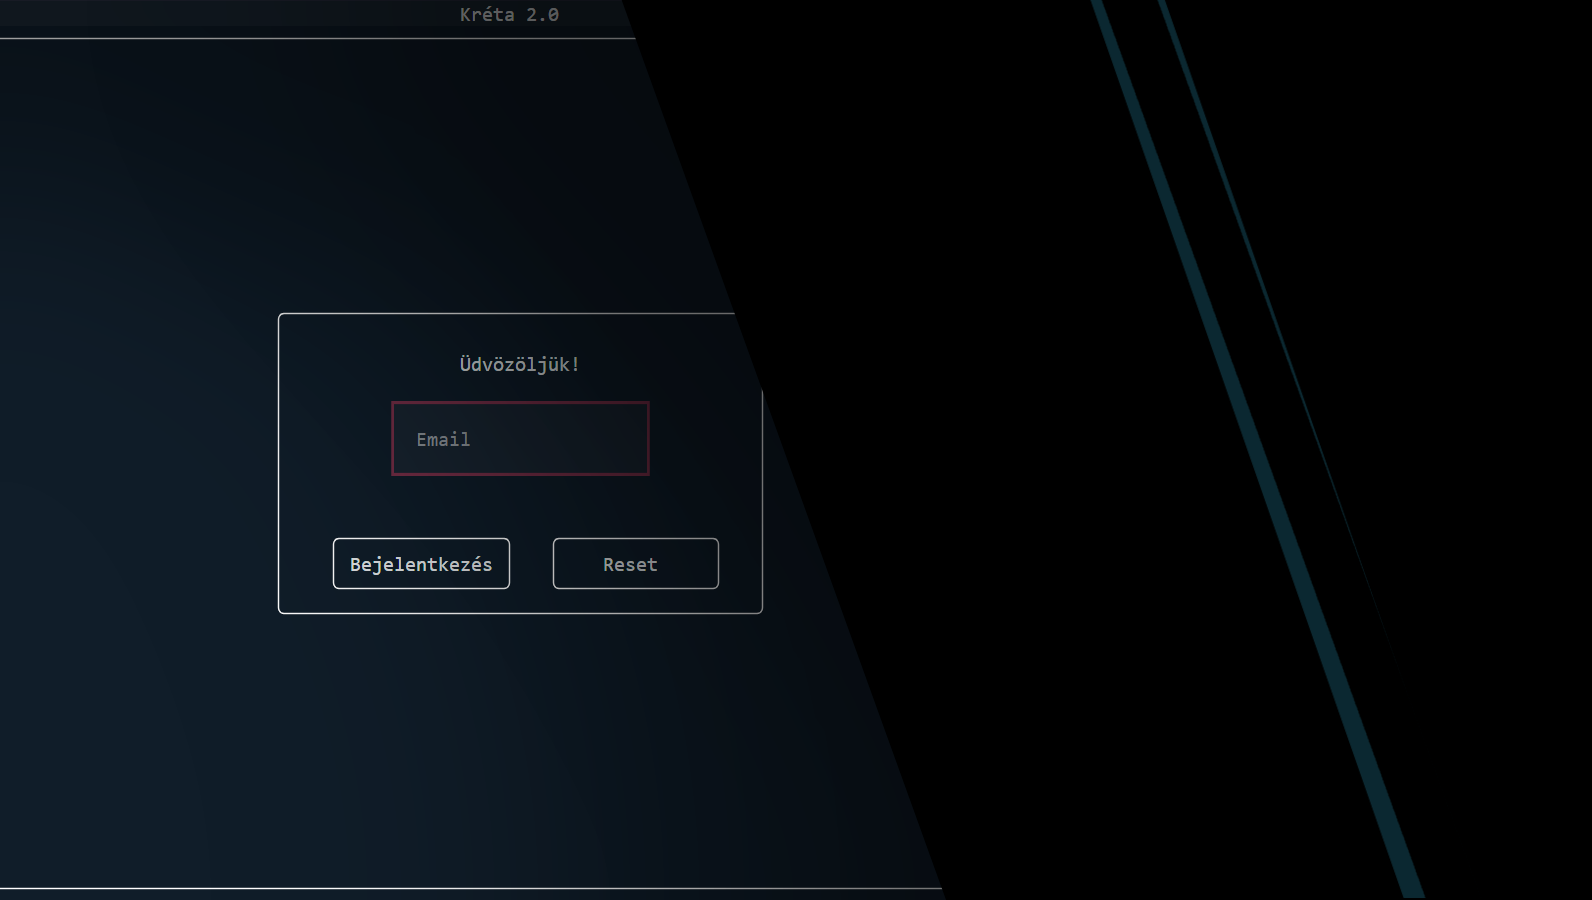
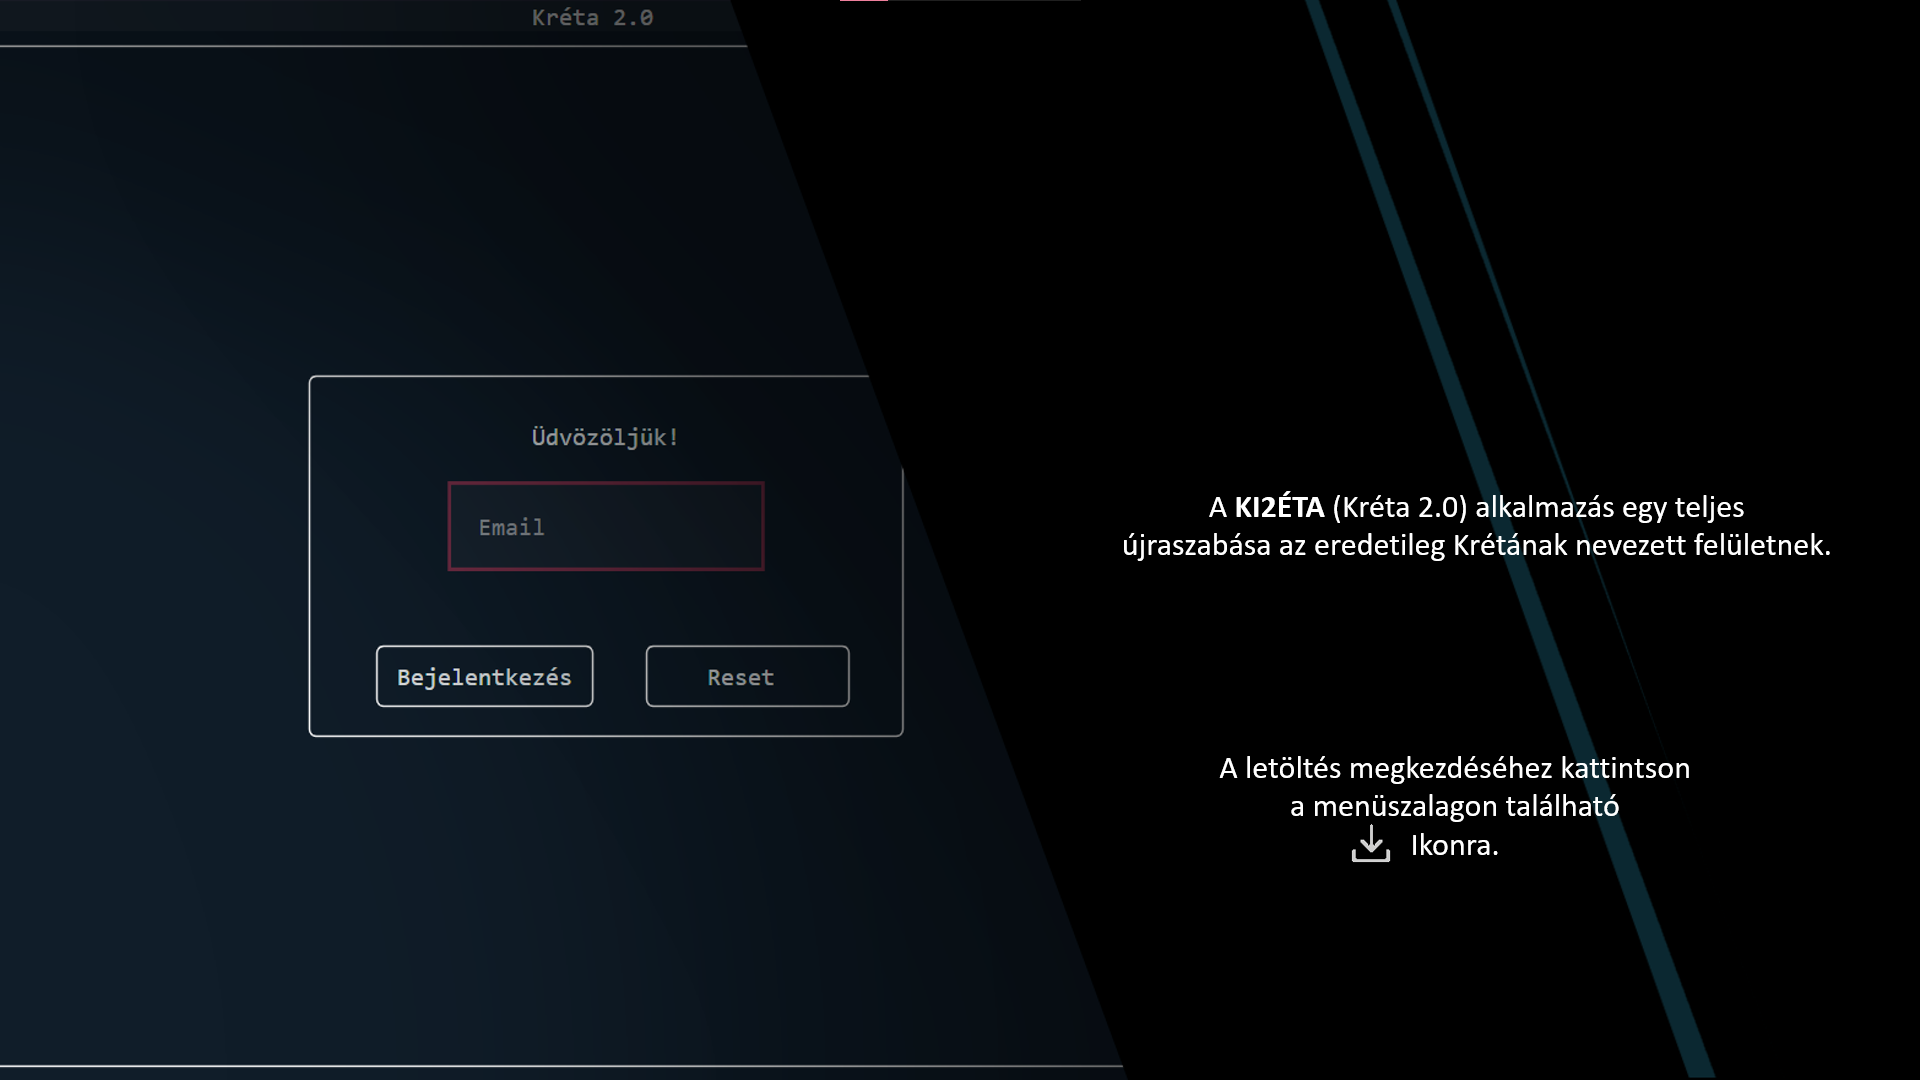
#41 Carousel

diff --git a/docs/program.html b/docs/program.html
@@ -27,7 +27,7 @@
   <div class="container">
     <a href="https://github.com/mezeirenata/nyilvantartas/archive/refs/heads/main.zip"><img src="kepek/kesz_download.png" class="mr-auto rounded" alt="letöltés"></img></a>
     <a class="navbar-brand" href="index.html">
-      <img src="kepek/KI2ETA2.png" alt="Logo" width="50" height="50" class="d-inline-block align-top rounded-circle ">
+      <img src="kepek/kreta-logo.jpg" alt="Logo" width="50" height="50" class="d-inline-block align-top rounded-circle ">
     </a>
     <button class="navbar-toggler" type="button" data-bs-toggle="collapse" data-bs-target="#navbarNav" aria-controls="navbarNav" aria-expanded="false" aria-label="Toggle navigation">
       <span class="navbar-toggler-icon"></span>
@@ -57,17 +57,27 @@
 <div class="container bg-dark2 mt-5">
 </div>
 
-<div class="container-kep container p-5">
-  <div class="row">
-    <div class="col-md-6"></div>
-    <div class="col-md-6">
-      <div class="row">
-        <div class="col-md-3"></div>
-        <div class="col-md-3"></div>
-        <div class="col-md-3">a</div>
-        <div class="col-md-3"></div>
+
+<div class="container">
+
+  <div id="carouselExampleIndicators" class="carousel slide" data-bs-ride="true">
+    <div class="carousel-indicators">
+      <button type="button" data-bs-target="#carouselExampleIndicators" data-bs-slide-to="0" class="active" aria-current="true" aria-label="Slide 1"></button>
+      <button type="button" data-bs-target="#carouselExampleIndicators" data-bs-slide-to="1" aria-label="Slide 2"></button>
+      <button type="button" data-bs-target="#carouselExampleIndicators" data-bs-slide-to="2" aria-label="Slide 3"></button>
+    </div>
+    <div class="carousel-inner">
+      <div class="carousel-item active">
+        <img src="kepek/bejelentkezes2.png" class="d-block w-100" alt="Első">
+      </div>
+      <div class="carousel-item">
+        <img src="..." class="d-block w-100" alt="...">
+      </div>
+      <div class="carousel-item">
+        <img src="..." class="d-block w-100" alt="...">
       </div>
     </div>
+    </button>
   </div>
 </div>
 
